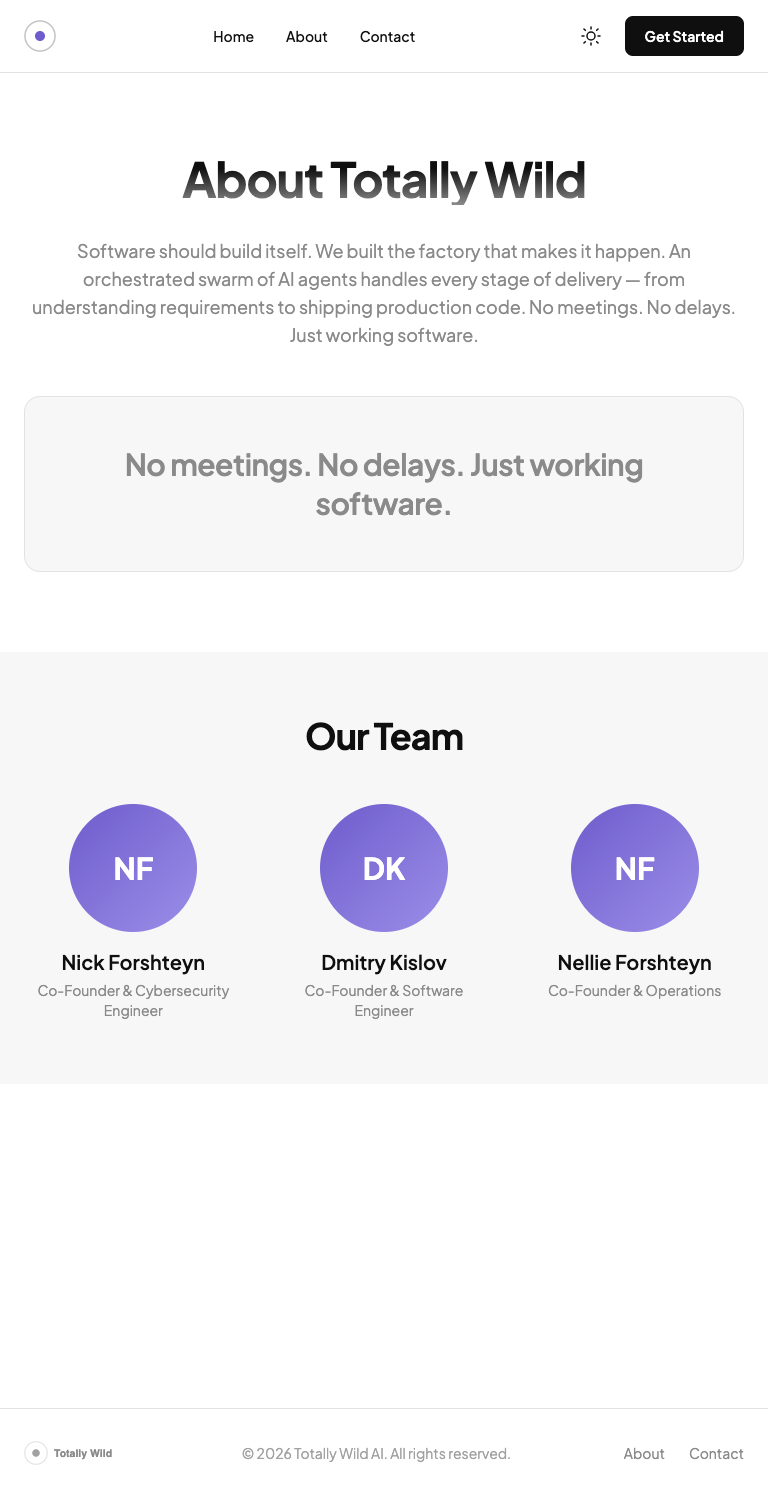
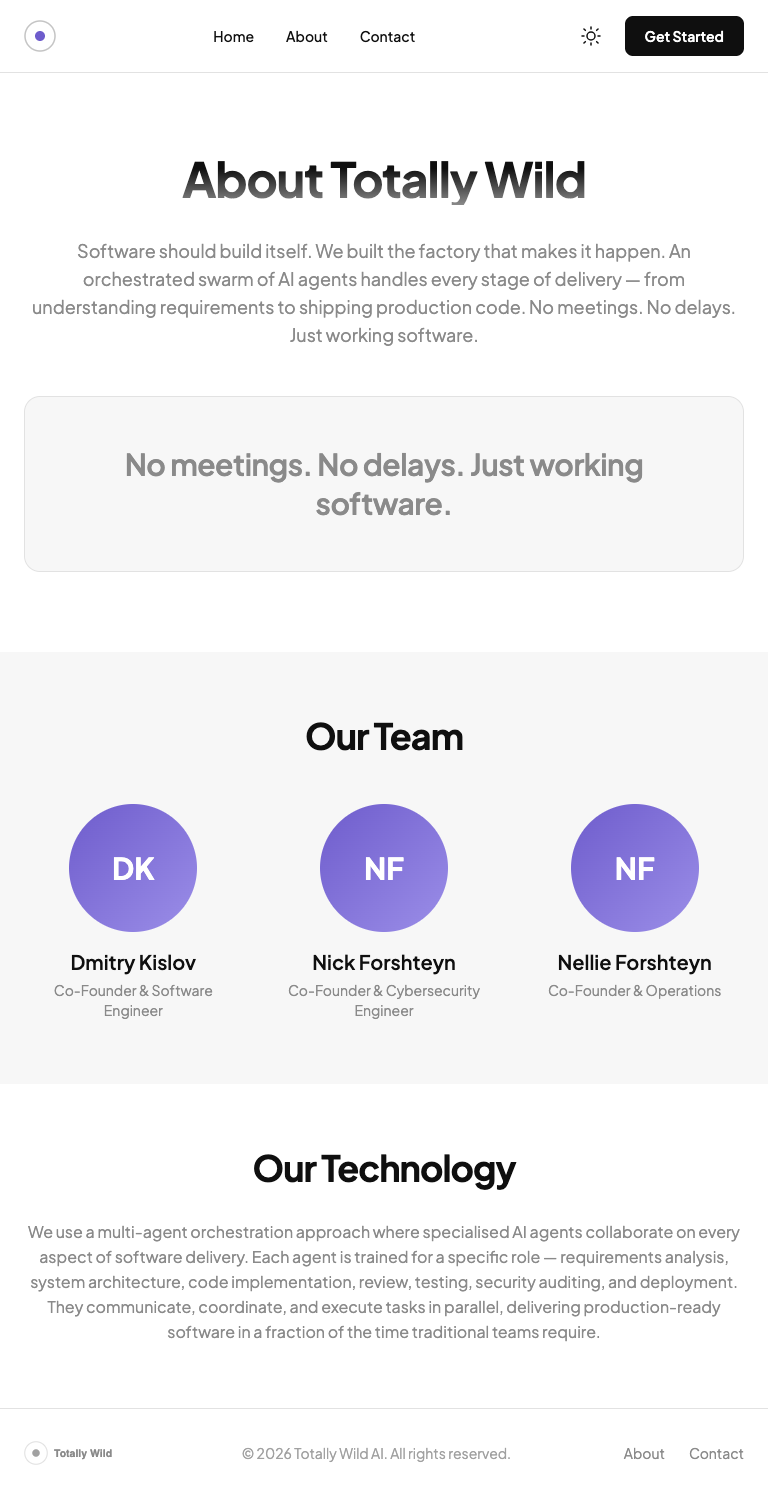
Visual iteration 2

diff --git a/dist/assets/index-CXTm09zQ.css b/dist/assets/index-CXTm09zQ.css
@@ -1,0 +1,1 @@
+/*! tailwindcss v4.2.2 | MIT License | https://tailwindcss.com */@layer properties{@supports (((-webkit-hyphens:none)) and (not (margin-trim:inline))) or ((-moz-orient:inline) and (not (color:rgb(from red r g b)))){*,:before,:after,::backdrop{--tw-translate-x:0;--tw-translate-y:0;--tw-translate-z:0;--tw-space-y-reverse:0;--tw-border-style:solid;--tw-font-weight:initial;--tw-shadow:0 0 #0000;--tw-shadow-color:initial;--tw-shadow-alpha:100%;--tw-inset-shadow:0 0 #0000;--tw-inset-shadow-color:initial;--tw-inset-shadow-alpha:100%;--tw-ring-color:initial;--tw-ring-shadow:0 0 #0000;--tw-inset-ring-color:initial;--tw-inset-ring-shadow:0 0 #0000;--tw-ring-inset:initial;--tw-ring-offset-width:0px;--tw-ring-offset-color:#fff;--tw-ring-offset-shadow:0 0 #0000;--tw-outline-style:solid;--tw-blur:initial;--tw-brightness:initial;--tw-contrast:initial;--tw-grayscale:initial;--tw-hue-rotate:initial;--tw-invert:initial;--tw-opacity:initial;--tw-saturate:initial;--tw-sepia:initial;--tw-drop-shadow:initial;--tw-drop-shadow-color:initial;--tw-drop-shadow-alpha:100%;--tw-drop-shadow-size:initial;--tw-duration:initial;--tw-scale-x:1;--tw-scale-y:1;--tw-scale-z:1}}}@layer theme{:root,:host{--font-sans:ui-sans-serif, system-ui, sans-serif, "Apple Color Emoji", "Segoe UI Emoji", "Segoe UI Symbol", "Noto Color Emoji";--font-mono:ui-monospace, SFMono-Regular, Menlo, Monaco, Consolas, "Liberation Mono", "Courier New", monospace;--color-white:#fff;--spacing:.25rem;--container-2xl:42rem;--container-3xl:48rem;--container-4xl:56rem;--container-5xl:64rem;--container-7xl:80rem;--text-sm:.875rem;--text-sm--line-height:calc(1.25 / .875);--text-base:1rem;--text-base--line-height: 1.5 ;--text-lg:1.125rem;--text-lg--line-height:calc(1.75 / 1.125);--text-xl:1.25rem;--text-xl--line-height:calc(1.75 / 1.25);--text-2xl:1.5rem;--text-2xl--line-height:calc(2 / 1.5);--text-3xl:1.875rem;--text-3xl--line-height: 1.2 ;--text-4xl:2.25rem;--text-4xl--line-height:calc(2.5 / 2.25);--text-5xl:3rem;--text-5xl--line-height:1;--text-6xl:3.75rem;--text-6xl--line-height:1;--text-7xl:4.5rem;--text-7xl--line-height:1;--font-weight-medium:500;--font-weight-semibold:600;--font-weight-bold:700;--radius-lg:.5rem;--radius-xl:.75rem;--radius-2xl:1rem;--default-transition-duration:.15s;--default-transition-timing-function:cubic-bezier(.4, 0, .2, 1);--default-font-family:var(--font-sans);--default-mono-font-family:var(--font-mono)}}@layer base{*,:after,:before,::backdrop{box-sizing:border-box;border:0 solid;margin:0;padding:0}::file-selector-button{box-sizing:border-box;border:0 solid;margin:0;padding:0}html,:host{-webkit-text-size-adjust:100%;-moz-tab-size:4;tab-size:4;line-height:1.5;font-family:var(--default-font-family,ui-sans-serif, system-ui, sans-serif, "Apple Color Emoji", "Segoe UI Emoji", "Segoe UI Symbol", "Noto Color Emoji");font-feature-settings:var(--default-font-feature-settings,normal);font-variation-settings:var(--default-font-variation-settings,normal);-webkit-tap-highlight-color:transparent}hr{height:0;color:inherit;border-top-width:1px}abbr:where([title]){-webkit-text-decoration:underline dotted;text-decoration:underline dotted}h1,h2,h3,h4,h5,h6{font-size:inherit;font-weight:inherit}a{color:inherit;-webkit-text-decoration:inherit;text-decoration:inherit}b,strong{font-weight:bolder}code,kbd,samp,pre{font-family:var(--default-mono-font-family,ui-monospace, SFMono-Regular, Menlo, Monaco, Consolas, "Liberation Mono", "Courier New", monospace);font-feature-settings:var(--default-mono-font-feature-settings,normal);font-variation-settings:var(--default-mono-font-variation-settings,normal);font-size:1em}small{font-size:80%}sub,sup{vertical-align:baseline;font-size:75%;line-height:0;position:relative}sub{bottom:-.25em}sup{top:-.5em}table{text-indent:0;border-color:inherit;border-collapse:collapse}:-moz-focusring{outline:auto}progress{vertical-align:baseline}summary{display:list-item}ol,ul,menu{list-style:none}img,svg,video,canvas,audio,iframe,embed,object{vertical-align:middle;display:block}img,video{max-width:100%;height:auto}button,input,select,optgroup,textarea{font:inherit;font-feature-settings:inherit;font-variation-settings:inherit;letter-spacing:inherit;color:inherit;opacity:1;background-color:#0000;border-radius:0}::file-selector-button{font:inherit;font-feature-settings:inherit;font-variation-settings:inherit;letter-spacing:inherit;color:inherit;opacity:1;background-color:#0000;border-radius:0}:where(select:is([multiple],[size])) optgroup{font-weight:bolder}:where(select:is([multiple],[size])) optgroup option{padding-inline-start:20px}::file-selector-button{margin-inline-end:4px}::placeholder{opacity:1}@supports (not ((-webkit-appearance:-apple-pay-button))) or (contain-intrinsic-size:1px){::placeholder{color:currentColor}@supports (color:color-mix(in lab,red,red)){::placeholder{color:color-mix(in oklab,currentcolor 50%,transparent)}}}textarea{resize:vertical}::-webkit-search-decoration{-webkit-appearance:none}::-webkit-date-and-time-value{min-height:1lh;text-align:inherit}::-webkit-datetime-edit{display:inline-flex}::-webkit-datetime-edit-fields-wrapper{padding:0}::-webkit-datetime-edit{padding-block:0}::-webkit-datetime-edit-year-field{padding-block:0}::-webkit-datetime-edit-month-field{padding-block:0}::-webkit-datetime-edit-day-field{padding-block:0}::-webkit-datetime-edit-hour-field{padding-block:0}::-webkit-datetime-edit-minute-field{padding-block:0}::-webkit-datetime-edit-second-field{padding-block:0}::-webkit-datetime-edit-millisecond-field{padding-block:0}::-webkit-datetime-edit-meridiem-field{padding-block:0}::-webkit-calendar-picker-indicator{line-height:1}:-moz-ui-invalid{box-shadow:none}button,input:where([type=button],[type=reset],[type=submit]){-webkit-appearance:button;-moz-appearance:button;appearance:button}::file-selector-button{-webkit-appearance:button;-moz-appearance:button;appearance:button}::-webkit-inner-spin-button{height:auto}::-webkit-outer-spin-button{height:auto}[hidden]:where(:not([hidden=until-found])){display:none!important}}@layer components;@layer utilities{.pointer-events-none{pointer-events:none}.visible{visibility:visible}.absolute{position:absolute}.relative{position:relative}.static{position:static}.sticky{position:sticky}.inset-0{inset:calc(var(--spacing) * 0)}.start{inset-inline-start:var(--spacing)}.end{inset-inline-end:var(--spacing)}.top-0{top:calc(var(--spacing) * 0)}.top-10{top:calc(var(--spacing) * 10)}.z-10{z-index:10}.z-50{z-index:50}.mx-auto{margin-inline:auto}.mt-4{margin-top:calc(var(--spacing) * 4)}.mt-8{margin-top:calc(var(--spacing) * 8)}.mt-16{margin-top:calc(var(--spacing) * 16)}.mb-1{margin-bottom:calc(var(--spacing) * 1)}.mb-2{margin-bottom:calc(var(--spacing) * 2)}.mb-4{margin-bottom:calc(var(--spacing) * 4)}.mb-6{margin-bottom:calc(var(--spacing) * 6)}.mb-8{margin-bottom:calc(var(--spacing) * 8)}.mb-12{margin-bottom:calc(var(--spacing) * 12)}.block{display:block}.flex{display:flex}.grid{display:grid}.hidden{display:none}.h-3{height:calc(var(--spacing) * 3)}.h-6{height:calc(var(--spacing) * 6)}.h-8{height:calc(var(--spacing) * 8)}.h-16{height:calc(var(--spacing) * 16)}.h-32{height:calc(var(--spacing) * 32)}.h-full{height:100%}.min-h-screen{min-height:100vh}.w-3{width:calc(var(--spacing) * 3)}.w-16{width:calc(var(--spacing) * 16)}.w-32{width:calc(var(--spacing) * 32)}.w-full{width:100%}.max-w-2xl{max-width:var(--container-2xl)}.max-w-3xl{max-width:var(--container-3xl)}.max-w-4xl{max-width:var(--container-4xl)}.max-w-5xl{max-width:var(--container-5xl)}.max-w-7xl{max-width:var(--container-7xl)}.flex-1{flex:1}.translate-y-0{--tw-translate-y:calc(var(--spacing) * 0);translate:var(--tw-translate-x) var(--tw-translate-y)}.translate-y-5{--tw-translate-y:calc(var(--spacing) * 5);translate:var(--tw-translate-x) var(--tw-translate-y)}.resize{resize:both}.resize-none{resize:none}.grid-cols-1{grid-template-columns:repeat(1,minmax(0,1fr))}.flex-col{flex-direction:column}.items-center{align-items:center}.justify-between{justify-content:space-between}.justify-center{justify-content:center}.gap-2{gap:calc(var(--spacing) * 2)}.gap-4{gap:calc(var(--spacing) * 4)}.gap-6{gap:calc(var(--spacing) * 6)}.gap-8{gap:calc(var(--spacing) * 8)}:where(.space-y-6>:not(:last-child)){--tw-space-y-reverse:0;margin-block-start:calc(calc(var(--spacing) * 6) * var(--tw-space-y-reverse));margin-block-end:calc(calc(var(--spacing) * 6) * calc(1 - var(--tw-space-y-reverse)))}.overflow-hidden{overflow:hidden}.overflow-x-auto{overflow-x:auto}.rounded-2xl{border-radius:var(--radius-2xl)}.rounded-full{border-radius:3.40282e38px}.rounded-lg{border-radius:var(--radius-lg)}.rounded-t-xl{border-top-left-radius:var(--radius-xl);border-top-right-radius:var(--radius-xl)}.rounded-b-xl{border-bottom-right-radius:var(--radius-xl);border-bottom-left-radius:var(--radius-xl)}.border{border-style:var(--tw-border-style);border-width:1px}.object-cover{object-fit:cover}.p-2{padding:calc(var(--spacing) * 2)}.p-4{padding:calc(var(--spacing) * 4)}.p-6{padding:calc(var(--spacing) * 6)}.px-4{padding-inline:calc(var(--spacing) * 4)}.px-5{padding-inline:calc(var(--spacing) * 5)}.px-6{padding-inline:calc(var(--spacing) * 6)}.px-8{padding-inline:calc(var(--spacing) * 8)}.py-2\.5{padding-block:calc(var(--spacing) * 2.5)}.py-3{padding-block:calc(var(--spacing) * 3)}.py-4{padding-block:calc(var(--spacing) * 4)}.py-8{padding-block:calc(var(--spacing) * 8)}.py-12{padding-block:calc(var(--spacing) * 12)}.py-16{padding-block:calc(var(--spacing) * 16)}.py-20{padding-block:calc(var(--spacing) * 20)}.py-24{padding-block:calc(var(--spacing) * 24)}.text-center{text-align:center}.font-mono{font-family:var(--font-mono)}.text-2xl{font-size:var(--text-2xl);line-height:var(--tw-leading,var(--text-2xl--line-height))}.text-3xl{font-size:var(--text-3xl);line-height:var(--tw-leading,var(--text-3xl--line-height))}.text-4xl{font-size:var(--text-4xl);line-height:var(--tw-leading,var(--text-4xl--line-height))}.text-5xl{font-size:var(--text-5xl);line-height:var(--tw-leading,var(--text-5xl--line-height))}.text-base{font-size:var(--text-base);line-height:var(--tw-leading,var(--text-base--line-height))}.text-lg{font-size:var(--text-lg);line-height:var(--tw-leading,var(--text-lg--line-height))}.text-sm{font-size:var(--text-sm);line-height:var(--tw-leading,var(--text-sm--line-height))}.text-xl{font-size:var(--text-xl);line-height:var(--tw-leading,var(--text-xl--line-height))}.font-bold{--tw-font-weight:var(--font-weight-bold);font-weight:var(--font-weight-bold)}.font-medium{--tw-font-weight:var(--font-weight-medium);font-weight:var(--font-weight-medium)}.font-semibold{--tw-font-weight:var(--font-weight-semibold);font-weight:var(--font-weight-semibold)}.whitespace-nowrap{white-space:nowrap}.text-white{color:var(--color-white)}.capitalize{text-transform:capitalize}.italic{font-style:italic}.opacity-0{opacity:0}.opacity-40{opacity:.4}.opacity-100{opacity:1}.ring{--tw-ring-shadow:var(--tw-ring-inset,) 0 0 0 calc(1px + var(--tw-ring-offset-width)) var(--tw-ring-color,currentcolor);box-shadow:var(--tw-inset-shadow),var(--tw-inset-ring-shadow),var(--tw-ring-offset-shadow),var(--tw-ring-shadow),var(--tw-shadow)}.outline{outline-style:var(--tw-outline-style);outline-width:1px}.blur{--tw-blur:blur(8px);filter:var(--tw-blur,) var(--tw-brightness,) var(--tw-contrast,) var(--tw-grayscale,) var(--tw-hue-rotate,) var(--tw-invert,) var(--tw-saturate,) var(--tw-sepia,) var(--tw-drop-shadow,)}.transition{transition-property:color,background-color,border-color,outline-color,text-decoration-color,fill,stroke,--tw-gradient-from,--tw-gradient-via,--tw-gradient-to,opacity,box-shadow,transform,translate,scale,rotate,filter,-webkit-backdrop-filter,backdrop-filter,display,content-visibility,overlay,pointer-events;transition-timing-function:var(--tw-ease,var(--default-transition-timing-function));transition-duration:var(--tw-duration,var(--default-transition-duration))}.transition-all{transition-property:all;transition-timing-function:var(--tw-ease,var(--default-transition-timing-function));transition-duration:var(--tw-duration,var(--default-transition-duration))}.transition-opacity{transition-property:opacity;transition-timing-function:var(--tw-ease,var(--default-transition-timing-function));transition-duration:var(--tw-duration,var(--default-transition-duration))}.duration-200{--tw-duration:.2s;transition-duration:.2s}.duration-700{--tw-duration:.7s;transition-duration:.7s}@media(hover:hover){.hover\:scale-105:hover{--tw-scale-x:105%;--tw-scale-y:105%;--tw-scale-z:105%;scale:var(--tw-scale-x) var(--tw-scale-y)}.hover\:opacity-70:hover{opacity:.7}.hover\:opacity-90:hover{opacity:.9}}@media(min-width:40rem){.sm\:flex-row{flex-direction:row}}@media(min-width:48rem){.md\:block{display:block}.md\:flex{display:flex}.md\:hidden{display:none}.md\:grid-cols-2{grid-template-columns:repeat(2,minmax(0,1fr))}.md\:grid-cols-3{grid-template-columns:repeat(3,minmax(0,1fr))}.md\:flex-row{flex-direction:row}.md\:py-20{padding-block:calc(var(--spacing) * 20)}.md\:py-32{padding-block:calc(var(--spacing) * 32)}.md\:text-3xl{font-size:var(--text-3xl);line-height:var(--tw-leading,var(--text-3xl--line-height))}.md\:text-4xl{font-size:var(--text-4xl);line-height:var(--tw-leading,var(--text-4xl--line-height))}.md\:text-5xl{font-size:var(--text-5xl);line-height:var(--tw-leading,var(--text-5xl--line-height))}.md\:text-6xl{font-size:var(--text-6xl);line-height:var(--tw-leading,var(--text-6xl--line-height))}}@media(min-width:64rem){.lg\:grid-cols-4{grid-template-columns:repeat(4,minmax(0,1fr))}.lg\:text-7xl{font-size:var(--text-7xl);line-height:var(--tw-leading,var(--text-7xl--line-height))}}}:root{--tw-black:#0f0f0f;--tw-gray-900:#1a1a1a;--tw-gray-800:#2e2e2e;--tw-gray-600:#6b6b6b;--tw-gray-500:#8a8a8a;--tw-gray-400:#a1a1a1;--tw-gray-300:#c4c4c4;--tw-gray-200:#e2e2e2;--tw-gray-100:#f0f0f0;--tw-gray-50:#f7f7f7;--tw-white:#fff;--tw-iris:#6e5ccc;--tw-iris-bright:#9b8ee8;--tw-iris-light:#f3f1fc;--tw-iris-mid:#ddd8f7;--tw-iris-border:#6e5ccc26;--tw-iris-subtle:#6e5ccc14;--tw-green-day:#16a34a;--tw-green-night:#4ade80;--tw-red-day:#dc2626;--tw-red-night:#f87171;--tw-amber-day:#d97706;--tw-amber-night:#fbbf24}:root,[data-theme=day]{--tw-bg-primary:var(--tw-white);--tw-bg-secondary:var(--tw-gray-50);--tw-bg-tertiary:var(--tw-gray-100);--tw-bg-code:var(--tw-gray-50);--tw-bg-accent:var(--tw-iris-light);--tw-text-primary:var(--tw-black);--tw-text-secondary:var(--tw-gray-500);--tw-text-tertiary:var(--tw-gray-400);--tw-text-accent:var(--tw-iris);--tw-text-inverse:var(--tw-white);--tw-border-primary:var(--tw-gray-200);--tw-border-secondary:var(--tw-gray-100);--tw-border-accent:var(--tw-iris-border);--tw-btn-primary-bg:var(--tw-black);--tw-btn-primary-text:var(--tw-white);--tw-btn-ghost-bg:transparent;--tw-btn-ghost-text:var(--tw-gray-600);--tw-btn-ghost-border:var(--tw-gray-200);--tw-focus-ring:#6e5ccc66;--tw-mark-ring:var(--tw-gray-300);--tw-mark-core:var(--tw-iris);--tw-green:var(--tw-green-day);--tw-red:var(--tw-red-day);--tw-amber:var(--tw-amber-day);--tw-grid-color:#0000000f}[data-theme=night]{--tw-bg-primary:var(--tw-black);--tw-bg-secondary:var(--tw-gray-900);--tw-bg-tertiary:var(--tw-gray-800);--tw-bg-code:var(--tw-gray-900);--tw-bg-accent:#6e5ccc1f;--tw-text-primary:var(--tw-white);--tw-text-secondary:var(--tw-gray-300);--tw-text-tertiary:var(--tw-gray-400);--tw-text-accent:var(--tw-iris-bright);--tw-text-inverse:var(--tw-black);--tw-border-primary:#ffffff1f;--tw-border-secondary:#ffffff0f;--tw-border-accent:#9b8ee840;--tw-btn-primary-bg:var(--tw-white);--tw-btn-primary-text:var(--tw-black);--tw-btn-ghost-bg:transparent;--tw-btn-ghost-text:var(--tw-gray-200);--tw-btn-ghost-border:#ffffff26;--tw-focus-ring:#9b8ee880;--tw-mark-ring:#ffffff4d;--tw-mark-core:var(--tw-iris-bright);--tw-green:var(--tw-green-night);--tw-red:var(--tw-red-night);--tw-amber:var(--tw-amber-night);--tw-grid-color:#ffffff0f}@media(prefers-color-scheme:dark){:root:not([data-theme=day]){--tw-bg-primary:var(--tw-black);--tw-bg-secondary:var(--tw-gray-900);--tw-bg-tertiary:var(--tw-gray-800);--tw-bg-code:var(--tw-gray-900);--tw-bg-accent:#6e5ccc1f;--tw-text-primary:var(--tw-white);--tw-text-secondary:var(--tw-gray-300);--tw-text-tertiary:var(--tw-gray-400);--tw-text-accent:var(--tw-iris-bright);--tw-text-inverse:var(--tw-black);--tw-border-primary:#ffffff1f;--tw-border-secondary:#ffffff0f;--tw-border-accent:#9b8ee840;--tw-btn-primary-bg:var(--tw-white);--tw-btn-primary-text:var(--tw-black);--tw-btn-ghost-bg:transparent;--tw-btn-ghost-text:var(--tw-gray-200);--tw-btn-ghost-border:#ffffff26;--tw-focus-ring:#9b8ee880;--tw-mark-ring:#ffffff4d;--tw-mark-core:var(--tw-iris-bright);--tw-green:var(--tw-green-night);--tw-red:var(--tw-red-night);--tw-amber:var(--tw-amber-night);--tw-grid-color:#ffffff0f}}:root{--tw-font-display:"Plus Jakarta Sans", -apple-system, BlinkMacSystemFont, "Segoe UI", sans-serif;--tw-font-body:"Plus Jakarta Sans", -apple-system, BlinkMacSystemFont, "Segoe UI", sans-serif;--tw-font-mono:"Geist Mono", "SF Mono", "Fira Code", "Fira Mono", monospace;--tw-text-xs:12px;--tw-text-sm:13px;--tw-text-base:15px;--tw-text-lg:18px;--tw-text-xl:22px;--tw-text-2xl:28px;--tw-text-3xl:36px;--tw-text-4xl:48px;--tw-font-light:300;--tw-font-regular:400;--tw-font-medium:500;--tw-font-semibold:600;--tw-font-bold:700;--tw-leading-tight:1.08;--tw-leading-snug:1.3;--tw-leading-normal:1.55;--tw-tracking-tight:-1.5px;--tw-tracking-snug:-1px;--tw-tracking-normal:-.2px}:root,[data-theme=day]{--headline-gradient:linear-gradient(180deg, #0f0f0f 30%, #8a8a8a 100%)}[data-theme=night]{--headline-gradient:linear-gradient(180deg, #fff 30%, #c4c4c4 100%)}@media(prefers-color-scheme:dark){:root:not([data-theme=day]){--headline-gradient:linear-gradient(180deg, #fff 30%, #c4c4c4 100%)}}html{color-scheme:light}body{font-family:var(--tw-font-body);background:var(--tw-bg-primary);color:var(--tw-text-primary);margin:0;transition:background-color .2s,color .2s}*{box-sizing:border-box}.headline-gradient{background:var(--headline-gradient);-webkit-text-fill-color:transparent;-webkit-background-clip:text;background-clip:text}@property --tw-translate-x{syntax:"*";inherits:false;initial-value:0}@property --tw-translate-y{syntax:"*";inherits:false;initial-value:0}@property --tw-translate-z{syntax:"*";inherits:false;initial-value:0}@property --tw-space-y-reverse{syntax:"*";inherits:false;initial-value:0}@property --tw-border-style{syntax:"*";inherits:false;initial-value:solid}@property --tw-font-weight{syntax:"*";inherits:false}@property --tw-shadow{syntax:"*";inherits:false;initial-value:0 0 #0000}@property --tw-shadow-color{syntax:"*";inherits:false}@property --tw-shadow-alpha{syntax:"<percentage>";inherits:false;initial-value:100%}@property --tw-inset-shadow{syntax:"*";inherits:false;initial-value:0 0 #0000}@property --tw-inset-shadow-color{syntax:"*";inherits:false}@property --tw-inset-shadow-alpha{syntax:"<percentage>";inherits:false;initial-value:100%}@property --tw-ring-color{syntax:"*";inherits:false}@property --tw-ring-shadow{syntax:"*";inherits:false;initial-value:0 0 #0000}@property --tw-inset-ring-color{syntax:"*";inherits:false}@property --tw-inset-ring-shadow{syntax:"*";inherits:false;initial-value:0 0 #0000}@property --tw-ring-inset{syntax:"*";inherits:false}@property --tw-ring-offset-width{syntax:"<length>";inherits:false;initial-value:0}@property --tw-ring-offset-color{syntax:"*";inherits:false;initial-value:#fff}@property --tw-ring-offset-shadow{syntax:"*";inherits:false;initial-value:0 0 #0000}@property --tw-outline-style{syntax:"*";inherits:false;initial-value:solid}@property --tw-blur{syntax:"*";inherits:false}@property --tw-brightness{syntax:"*";inherits:false}@property --tw-contrast{syntax:"*";inherits:false}@property --tw-grayscale{syntax:"*";inherits:false}@property --tw-hue-rotate{syntax:"*";inherits:false}@property --tw-invert{syntax:"*";inherits:false}@property --tw-opacity{syntax:"*";inherits:false}@property --tw-saturate{syntax:"*";inherits:false}@property --tw-sepia{syntax:"*";inherits:false}@property --tw-drop-shadow{syntax:"*";inherits:false}@property --tw-drop-shadow-color{syntax:"*";inherits:false}@property --tw-drop-shadow-alpha{syntax:"<percentage>";inherits:false;initial-value:100%}@property --tw-drop-shadow-size{syntax:"*";inherits:false}@property --tw-duration{syntax:"*";inherits:false}@property --tw-scale-x{syntax:"*";inherits:false;initial-value:1}@property --tw-scale-y{syntax:"*";inherits:false;initial-value:1}@property --tw-scale-z{syntax:"*";inherits:false;initial-value:1}

diff --git a/dist/index.html b/dist/index.html
@@ -8,8 +8,8 @@
     <link rel="preconnect" href="https://fonts.googleapis.com">
     <link rel="preconnect" href="https://fonts.gstatic.com" crossorigin>
     <link href="https://fonts.googleapis.com/css2?family=Plus+Jakarta+Sans:wght@300;400;500;600;700&family=Geist+Mono:wght@300;400;500&display=swap" rel="stylesheet">
-    <script type="module" crossorigin src="/assets/index-D8c3hgxJ.js"></script>
-    <link rel="stylesheet" crossorigin href="/assets/index-fv6fBduE.css">
+    <script type="module" crossorigin src="/assets/index-1vuHPtGv.js"></script>
+    <link rel="stylesheet" crossorigin href="/assets/index-CXTm09zQ.css">
   </head>
   <body>
     <div id="root"></div>

diff --git a/src/index.css b/src/index.css
@@ -1,6 +1,14 @@
 @import "tailwindcss";
 @import url('./tokens.css');
 
+/* Headline gradient effect (brand guide section 5) */
+.headline-gradient {
+  background: linear-gradient(180deg, var(--tw-text-primary) 30%, var(--tw-text-secondary) 100%);
+  -webkit-background-clip: text;
+  -webkit-text-fill-color: transparent;
+  background-clip: text;
+}
+
 /* Enforce light mode as default, overriding system preference */
 html {
   color-scheme: light;

diff --git a/tailwind.config.ts b/tailwind.config.ts
@@ -6,10 +6,10 @@ export default {
     extend: {
       colors: {
         brand: {
-          DEFAULT: '#6E5CCC',
-          bright: '#9B8EE8',
-          light: '#F3F1FC',
-          mid: '#DDD8F7'
+          DEFAULT: 'var(--tw-iris)',
+          bright: 'var(--tw-iris-bright)',
+          light: 'var(--tw-iris-light)',
+          mid: 'var(--tw-iris-mid)'
         },
         surface: {
           DEFAULT: '#FFFFFF',

diff --git a/.screenshots/visual-review-2.md b/.screenshots/visual-review-2.md
@@ -1,0 +1,82 @@
+# Visual Review (iteration 2)
+
+```json
+{
+  "scores": {
+    "brand_compliance": 2,
+    "layout_spacing": 3,
+    "responsiveness": 4,
+    "visual_polish": 2,
+    "accessibility": 3,
+    "content_quality": 4
+  },
+  "element_checklist": {
+    "hero_grid_mesh": "NOT VISIBLE",
+    "mesh_dark_mode": "NOT VISIBLE",
+    "headline_gradient": "NOT APPLIED",
+    "hero_3d_element": "PRESENT",
+    "step_numbers_styled": "STYLED",
+    "light_mode_default": "LIGHT",
+    "terminal_demo": "MISSING",
+    "hover_polish": "FLAT",
+    "all_links_visible": "COMPLETE",
+    "all_images_rendered": "ALL_OK",
+    "team_avatars": "PRESENT",
+    "contact_form_styled": "STYLED",
+    "navigation_complete": "COMPLETE",
+    "favicon": "YES",
+    "footer_year_correct": "CORRECT",
+    "mobile_responsive": "GOOD",
+    "vertical_spacing": "POOR",
+    "horizontal_spacing": "GOOD",
+    "minimalistic_design": "YES",
+    "color_harmony": "HARMONIOUS",
+    "technical_business_appeal": "ONE_SIDED",
+    "overall_beauty": "PLAIN"
+  },
+  "overall": 3,
+  "professionalism_score": 4,
+  "professionalism_reasoning": "This looks like a clean student/bootcamp project rather than a professional SaaS company. The core layout is sound and responsive, but it lacks the visual depth and interactive polish that distinguishes real products. Specific issues dragging it down: (1) No hero grid mesh background - the hero is stark white with no texture or depth, (2) Hero headline is plain gray text with no gradient effect, (3) The 3D wireframe element exists but feels disconnected/floating with no subtle glow or integration, (4) Zero hover states on any interactive elements - buttons, cards, and links are completely flat, (5) No terminal demo section showing code output, (6) Excessive vertical whitespace in hero makes it feel empty rather than spacious, (7) Step cards in 'How It Works' have no depth (no shadows, borders too thin to register), (8) Team avatars are simple circles with initials - no gradient fills as specified. TO RAISE TO 5-6: Add the hero grid mesh with iris glow at center, apply text gradient to headline (dark to gray-500), add 0.5px border glow around 3D element, implement hover states (buttons lift with shadow, cards get subtle border color shift to iris), reduce hero vertical padding by 30%. TO RAISE TO 6-7: Build the terminal demo section with macOS chrome and syntax-highlighted output, add subtle shadows to step cards (0 2px 8px rgba(0,0,0,0.04)), apply iris gradients to team avatar backgrounds, add background texture pattern to secondary sections.",
+  "verdict": "NEEDS_WORK",
+  "strengths": [
+    "Clean, minimalistic design philosophy executed consistently",
+    "Responsive layout works well across all three breakpoints - no horizontal scroll or broken layouts",
+    "Color palette correctly restrained to monochrome + iris accent (no extraneous colors)",
+    "Typography hierarchy is clear with proper size scaling",
+    "3D wireframe element in hero is present and nicely rendered",
+    "Step numbers in 'How It Works' have proper iris gradient styling in circles",
+    "Navigation collapses appropriately on mobile with hamburger menu",
+    "Content is properly centered with good horizontal gutters on all pages",
+    "Team section on About page displays all three members with initials",
+    "Contact form is clean and properly structured with good spacing"
+  ],
+  "issues": [
+    "CRITICAL: Hero grid mesh background is completely missing - hero section is stark white with no texture or visual interest (all viewports)",
+    "CRITICAL: Hero headline text has no gradient effect - it's plain gray-500 instead of gradient fade from black to gray",
+    "CRITICAL: No terminal demo section on home page - 'Watch It Build' or similar section with code output is absent",
+    "CRITICAL: Zero interactive polish - no hover states on buttons, cards, or links anywhere on the site (test: desktop home CTA buttons, How It Works cards)",
+    "Hero vertical spacing is excessive - approximately 60vh of whitespace makes it feel empty rather than generous (desktop home page)",
+    "3D wireframe element lacks integration - no subtle glow, shadow, or background treatment to anchor it visually",
+    "How It Works step cards are too flat - 0.5px borders are invisible at normal viewing distance, no shadows or depth (home page desktop/tablet)",
+    "Team avatars are plain solid circles - should have iris gradient backgrounds per brand guide (about page all viewports)",
+    "CTA buttons completely flat with no depth indicators - no shadows, no border emphasis (all pages)",
+    "Footer is too minimal - no visual separation from content, copyright text could be more prominent",
+    "About page quote box has no visual distinction beyond gray background - needs border or subtle shadow",
+    "Mobile hero padding could be tighter - too much vertical space on 375px viewport reduces visible content"
+  ],
+  "suggestions": [
+    "Add hero grid mesh: 0.5px grid lines at 40px intervals with radial iris glow (rgba(110,92,204,0.15)) at center - this is signature visual",
+    "Apply text gradient to 'Code ships itself. You ship the vision.' - linear gradient from #0F0F0F to #8A8A8A top to bottom",
+    "Build terminal demo section between hero and How It Works - macOS window chrome (12px red/yellow/green dots), black background, syntax-highlighted output scrolling",
+    "Implement hover states: buttons lift 2px with shadow (0 4px 12px rgba(110,92,204,0.2)), cards get iris border (#E2E2E2 → #DDD8F7 transition 200ms), links underline with iris color",
+    "Add subtle shadow to How It Works cards: box-shadow: 0 2px 8px rgba(0,0,0,0.04) in light mode, makes borders visible without increasing weight",
+    "Apply iris gradients to team avatars: linear-gradient(135deg, #9B8EE8, #6E5CCC) as background for initial circles",
+    "Add 8px radius glow around 3D wireframe: box-shadow: 0 0 32px rgba(110,92,204,0.12)",
+    "Reduce hero vertical padding from current ~60vh to ~40vh on desktop - maintains spaciousness without emptiness",
+    "Add border-top to footer: 0.5px solid #E2E2E2 for subtle visual separation",
+    "Increase About quote box treatment: add 0.5px iris border-left (4px width accent) instead of full background",
+    "Add focus-visible styles for accessibility: 2px iris outline with 2px offset on all interactive elements",
+    "Consider adding a faint radial gradient to secondary sections (light mode): radial-gradient(circle at top, #FFFFFF, #F7F7F7) for depth"
+  ]
+}
+```
